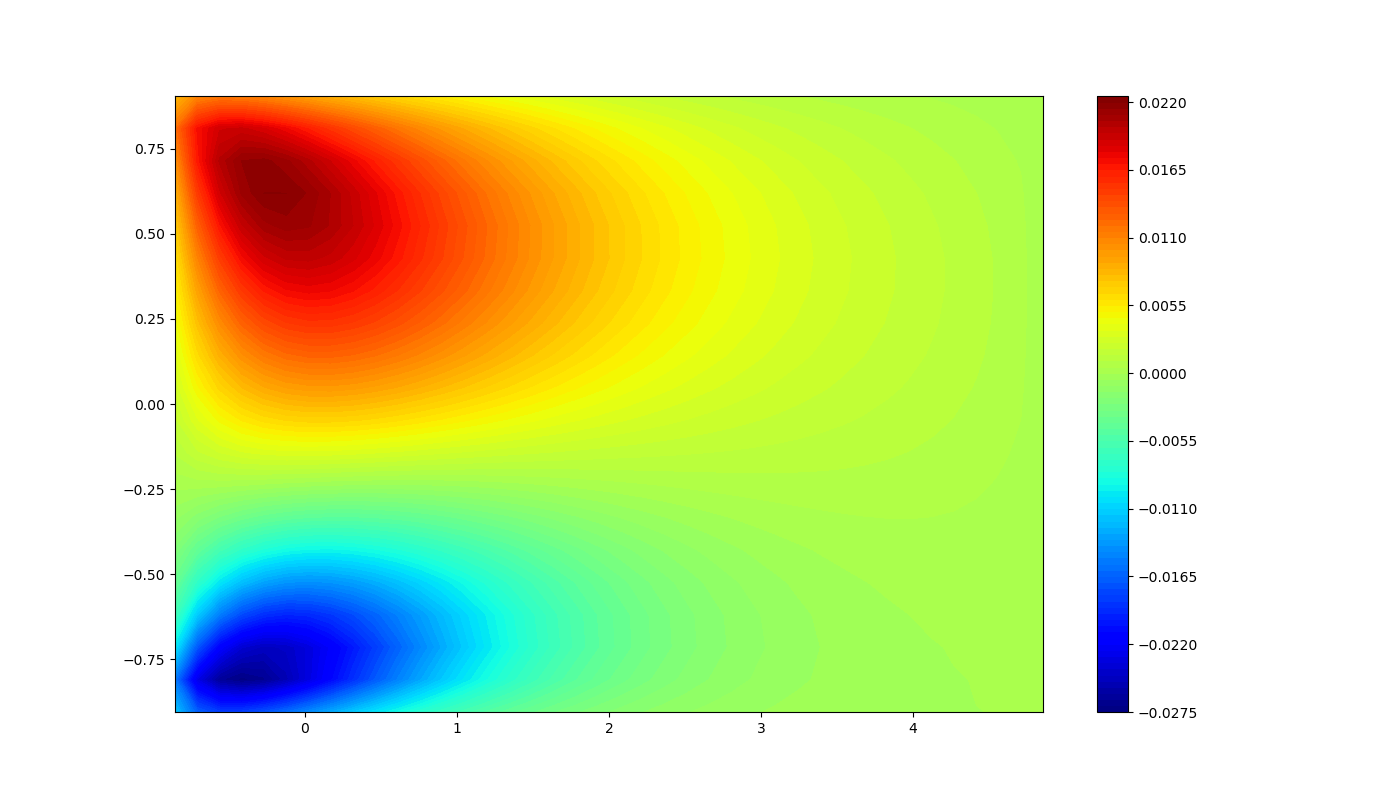
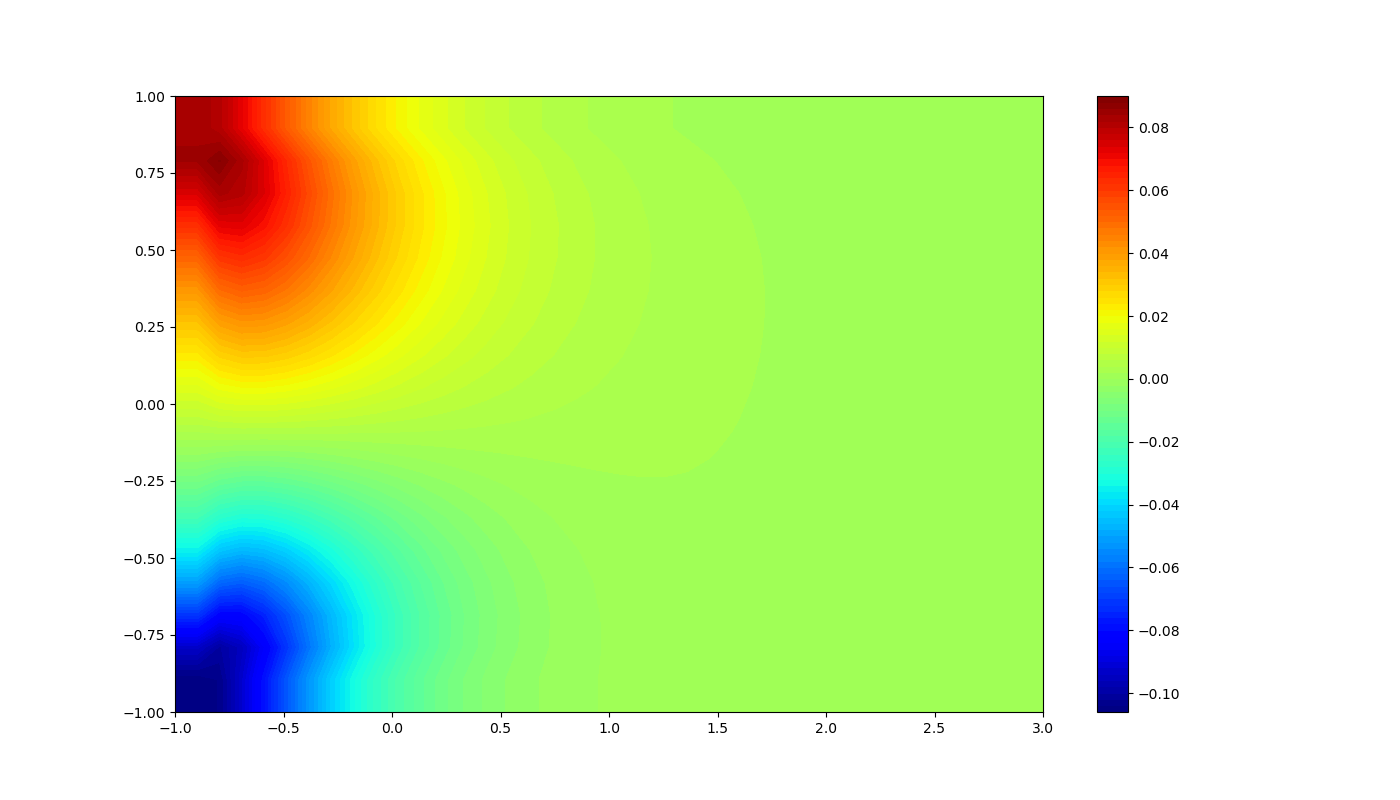
new

diff --git a/navstokes.py b/navstokes.py
@@ -2,10 +2,10 @@ import numpy as np
 import scipy.sparse.linalg as spl
 import scipy.sparse as sp
 from libhelper import relerr
-#from scipy.fftpack import dct,idct,dst,idst
 import matplotlib.pyplot as plt
 from mpl_toolkits import mplot3d
 import sys
+
 # Timestepping Methods
 def rk2(u,v,p,dt,hx,hy,nu,idx,idy,advscheme):
     su1 = advscheme(u,[u,v],idx,idy,hx,hy,dt) + dt*(nu*lap(u,idx,idy,hx,hy) -\
@@ -73,7 +73,7 @@ def poifd(f,hy,hx,nx,ny):
     f=np.reshape(f,nx*ny)
     
     #krylov methods
-    ubicgs,itr=spl.bicgstab(L,f,tol=1e-7)
+    ubicgs,itr=spl.bicgstab(L,f,tol=1e-8)
 #    print("\r iter = %d"%itr , end = " ")
     
     return ubicgs.reshape(nx,ny)
@@ -133,15 +133,15 @@ ny = int(sys.argv[2])
 tfinal = float(sys.argv[3])
 dt = float(sys.argv[4])
 
-x0 = -1 ; xn = 5
+x0 = -1 ; xn = 3
 y0 = -1 ; yn = 1
 hy = (yn - y0)/( ny - 1 )
 hx = (xn - x0)/( nx - 1 )
 u = np.zeros((ny+2,nx+2))
 v = np.zeros((ny+2,nx+2))
 p = np.zeros((ny+2,nx+2))
-xi = np.linspace(x0,xn,nx+2)
-yi = np.linspace(y0,yn,ny+2)
+xi = np.linspace(x0,xn,nx)
+yi = np.linspace(y0,yn,ny)
 xx,yy = np.meshgrid(xi,yi)
 
 # constants
@@ -174,8 +174,11 @@ p[-2 , idy  ] =  p[ -1 , idy  ]
 # p[ 0 , idy ] = -(-4*p[ 1 , idy ] +  p[ 2 , idy ])/3
 # p[-1 , idy ] = (4*p[ -2 , idy ] - p[-3 , idy ])/3
 p[ idx , -1 ] =  0
-timestep =0
+timestep = 0
 t = 0
+udiff = 1
+pdiff = 1
+tol = float(sys.argv[5])
 while (t < tfinal):
     
     tmpp = ppe(p,u,v,dt,idx,idy,hx,hy,rho)
@@ -184,22 +187,18 @@ while (t < tfinal):
 #     tmpu,tmpv = rk2(u,v,dt,hx,hy,nu,idx,idy,upwindord1)
     
     # update boundary conditions
-    u[ idx , -2 ] = u[ idx , -1  ]
-    v[ idx , -2 ] = v[ idx , -1  ]
-    p[ idx , 1  ] = -p[ idx , 0  ] 
-    p[ 1 , idy  ] = -p[ 0 , idy  ] 
-    p[-1 , idy  ] = p[ 0 , idy  ]
-#     u[ idx ,-1 ] = (4*u[ idx ,-2 ] - u[ idx ,-3 ])/3
-#     v[ idx ,-1 ] = (4*v[ idx ,-2 ] - v[ idx ,-3 ])/3
-#     p[ idx , 0 ] = -(-4*p[ idx , 1 ] + p[ idx , 2 ])/3
-#     p[ 0 , idy ] = -(-4*p[ 1 , idy ] +  p[ 2 , idy ])/3
-#     p[-1 , idy ] = (4*p[ -2 , idy ] - p[-3 , idy ])/3
-
+    tmpu[ : , -1 ] = tmpu[ : , -2  ]
+    tmpv[ : , -1 ] = tmpv[ : , -2  ]
+    tmpp[ : , 0  ] = tmpp[ : , 1  ] 
+    tmpp[ 0 , :  ] = tmpp[ 1 , :  ] 
+    tmpp[ -1 , :  ] = tmpp[ -2 , :  ]   
     tmpp[ : , -1 ] = 0
     tmpu[ -1 ] = 0 
     tmpu[ 0 ] = 0 
     tmpv[ -1 ] = 0 
     tmpv[ 0 ] = 0 
+    
+    # Momentum and Pressure Tolerance
     udiff = relerr(tmpu,u[idx,idy]+2.3e-16)
     pdiff = relerr(tmpp,p[idx,idy]+2.3e-16)
     # update momentum and pressure for next timestep
@@ -211,23 +210,26 @@ while (t < tfinal):
     #print("\r time = %g"%t , end = " ")
 	# Advance and Display/Monitor Time Step
     t = round(t,3)
-    pdiff = round(pdiff,4)
-    udiff = round(udiff,4)
     timestep += 1
     monitorfile.write(" Time: " + str(t) + " Number of Timesteps: "+ str(timestep)+"\n")
-    monitorfile.write("momentum tolerance" + str(udiff)+"\n")
-    monitorfile.write("pressure tolerance"+ str(pdiff)+"\n")
-    monitorfile.write("------------------------\n")
+    monitorfile.write("momentum tolerance: " + str(udiff)+"\n")
+    monitorfile.write("pressure tolerance: "+ str(pdiff)+"\n")
+    monitorfile.write("------------------------------------\n")
+    if pdiff < tol and udiff < tol:
+          break;
 #print(" ")
 
 #zip data
 np.savez('test.npz',u=u,v=v,p=p,x=xx,y=yy)
+um = np.sqrt(u**2 + v**2)
+print(um[idx,-2].max())
+ums = um[idx,-2]/np.max(um[idx,-2],0)
+ums = ums.flatten()
 
 #visualization
-xx = xx[idx,idy]; yy = yy[idx,idy]
 fig = plt.figure(figsize=(14,8))
 ax = fig.add_subplot(1,1,1)
-plt1 = ax.contourf(xx,yy,np.sqrt(u[idx,idy]**2 + v[idx,idy]**2),100,cmap='jet')
+plt1 = ax.contourf(xx,yy,u[idx,idy],100,cmap='jet')
 fig.colorbar(plt1)
 plt.savefig('umag.png')
 
@@ -236,3 +238,11 @@ ax = fig.add_subplot(1,1,1)
 plt2 = ax.contourf(xx,yy,p[idx,idy],100,cmap='jet')
 fig.colorbar(plt2)
 plt.savefig('press.png')
+
+fig = plt.figure(figsize=(14,8))
+ax = fig.add_subplot(1,1,1)
+ax.plot(yi,1-yi**2,'b--',label = 'exact')
+ax.plot(yi,ums,'ro',label = 'FD')
+plt.legend()
+plt.savefig('error.png')
+
